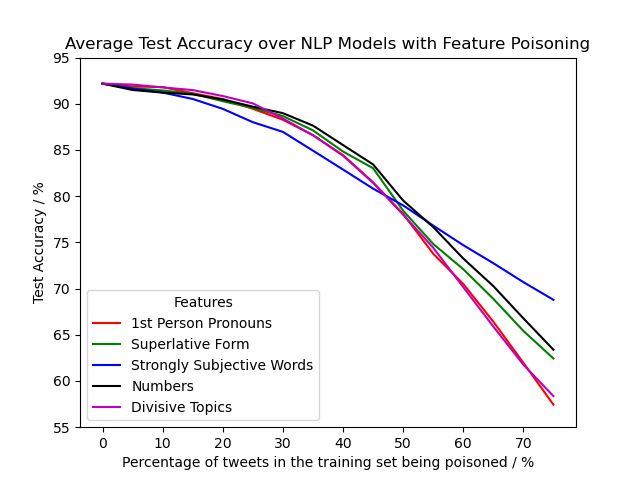
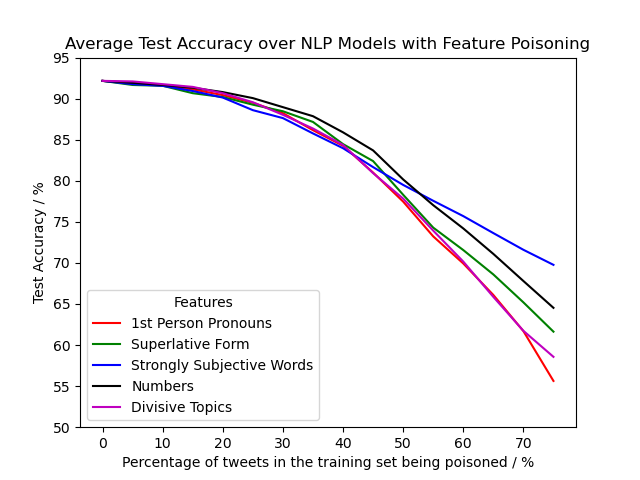
fix average graph

diff --git a/make_graph.py b/make_graph.py
@@ -1,63 +1,96 @@
 import numpy as np
 import matplotlib.pyplot as plt
 import os
+import pandas as pd
 
-# N% values
-n = [x for x in range(0,80,5)]
+"""
+This code produces the graph in Figure 4.4: the average of each NLP method for all features undergoing feature poisoning.
+"""
 
 # First Person Pronoun Test Accuracies Per Model
-first_lr = [89.4, 89.15, 89.05, 88.53, 88.14, 87.66, 86.92, 85.68, 84.0, 81.77, 79.28, 75.85, 72.34, 67.73, 62.76, 57.44]
-first_rf = [94.13, 93.56, 93.67, 92.67, 91.79, 89.99, 88.27, 85.72, 82.59, 78.42, 72.76, 66.85, 64.05, 60.74, 56.69, 52.76]
-first_svm = [93.03, 92.91, 92.7, 92.24, 91.62, 90.73, 89.63, 88.41, 86.75, 84.31, 82.21, 78.63, 75.11, 70.78, 66.44, 62.11]
+file = pd.read_csv('results/feature_first_person.csv')  
+lr_accuracy= file['LR']
+rf_accuracy = file['RF']
+svm_accuracy = file['SVM']
+
+lr_accuracy_percent = [x * 100 for x in lr_accuracy]
+rf_accuracy_percent = [x * 100 for x in rf_accuracy]
+svm_accuracy_percent = [x * 100 for x in svm_accuracy]
+
 # Avg First Person Pronoun Test Accuracies 
-first_acc_total = np.array([first_lr, first_rf, first_svm])
+first_acc_total = np.array([lr_accuracy_percent, rf_accuracy_percent, svm_accuracy_percent])
 first_acc_avg = np.average(first_acc_total, axis=0)
 
-# Superlative Test Accuracies Per Model
-super_lr = [89.4, 89.29, 89.01, 88.53, 88.05, 87.67, 87.07, 86.33, 85.24, 84.21, 82.54, 80.89, 78.9, 76.53, 73.29, 70.33]
-super_rf = [94.13, 92.82, 92.65, 92.38, 91.12, 89.97, 88.72, 85.92, 81.55, 78.82, 68.94, 62.21, 59.04, 54.59, 51.07, 48.7]
-super_svm = [93.03, 92.98, 92.67, 92.36, 91.67, 90.99, 90.23, 89.12, 87.71, 86.06, 83.81, 81.39, 78.37, 75.55, 71.9, 68.27]
-# Avg Superlative Test Accuracies 
-super_acc_total = np.array([super_lr, super_rf, super_svm])
+# Superlative Forms Test Accuracies Per Model
+file = pd.read_csv('results/feature_superlative.csv')  
+lr_accuracy= file['LR']
+rf_accuracy = file['RF']
+svm_accuracy = file['SVM']
+
+lr_accuracy_percent = [x * 100 for x in lr_accuracy]
+rf_accuracy_percent = [x * 100 for x in rf_accuracy]
+svm_accuracy_percent = [x * 100 for x in svm_accuracy]
+
+# Avg Superlative Forms Test Accuracies 
+super_acc_total = np.array([lr_accuracy_percent, rf_accuracy_percent, svm_accuracy_percent])
 super_acc_avg = np.average(super_acc_total, axis=0)
 
-# Strongly Subjective Words Test Accuracies Per Model
-subj_lr = [89.4, 88.52, 88.14, 87.54, 86.87, 86.15, 85.48, 84.38, 83.42, 82.37, 81.17, 80.14, 79.16, 78.03, 76.82, 75.78]
-subj_rf = [94.13, 93.61, 93.06, 92.14, 90.52, 88.15, 86.66, 83.11, 79.5, 76.21, 73.37, 69.56, 65.94, 63.0, 60.52, 57.89]
-subj_svm = [93.03, 92.79, 92.46, 91.88, 90.97, 89.73, 88.74, 87.3, 85.73, 83.88, 82.47, 80.76, 79.0, 77.22, 74.76, 72.69]
-# Avg Strongly Subjective Words Test Accuracies
-subj_acc_total = np.array([subj_lr, subj_rf, subj_svm])
-subj_acc_avg = np.average(subj_acc_total, axis=0)
-
 # Numbers Test Accuracies Per Model
-num_lr = [89.4, 88.64, 88.45, 88.43, 87.95, 87.38, 86.87, 86.18, 85.25, 83.88, 82.52, 80.52, 77.73, 74.95, 71.95, 68.58]
-num_rf = [94.13, 93.2, 92.76, 92.34, 91.64, 90.58, 89.84, 87.71, 83.59, 80.26, 71.86, 67.79, 63.09, 59.91, 55.5, 52.64]
-num_svm = [93.03, 92.64, 92.43, 92.27, 91.81, 91.11, 90.25, 89.03, 87.76, 86.18, 84.21, 81.67, 78.95, 75.95, 72.89, 68.93]
-# Avg Numbers Words Test Accuracies
-num_acc_total = np.array([num_lr, num_rf, num_svm])
+file = pd.read_csv('results/feature_numbers.csv')  
+lr_accuracy= file['LR']
+rf_accuracy = file['RF']
+svm_accuracy = file['SVM']
+
+lr_accuracy_percent = [x * 100 for x in lr_accuracy]
+rf_accuracy_percent = [x * 100 for x in rf_accuracy]
+svm_accuracy_percent = [x * 100 for x in svm_accuracy]
+
+# Avg Numbers Test Accuracies 
+num_acc_total = np.array([lr_accuracy_percent, rf_accuracy_percent, svm_accuracy_percent])
 num_acc_avg = np.average(num_acc_total, axis=0)
 
-# Divisive Test Accuracies Per Model
-div_lr = [89.4, 89.15, 89.0, 88.77, 88.45, 88.1, 87.42, 86.35, 85.51, 84.27, 82.2, 79.97, 76.74, 73.2, 68.98, 64.96]
-div_rf = [94.13, 94.01, 93.49, 92.82, 91.76, 90.32, 86.87, 83.38, 78.83, 73.32, 67.3, 61.37, 55.23, 49.75, 45.79, 42.83]
-div_svm = [93.03, 93.08, 92.84, 92.86, 92.31, 91.71, 90.92, 90.08, 88.81, 86.76, 84.5, 81.94, 78.51, 74.71, 70.54, 67.3]
-# Avg Divisive Words Test Accuracies
-div_acc_total = np.array([div_lr, div_rf, div_svm])
+# Strongly Subjective Words Test Accuracies Per Model
+file = pd.read_csv('results/feature_subjective.csv')  
+lr_accuracy= file['LR']
+rf_accuracy = file['RF']
+svm_accuracy = file['SVM']
+
+lr_accuracy_percent = [x * 100 for x in lr_accuracy]
+rf_accuracy_percent = [x * 100 for x in rf_accuracy]
+svm_accuracy_percent = [x * 100 for x in svm_accuracy]
+
+# Avg Strongly Subjective Words Test Accuracies 
+subj_acc_total = np.array([lr_accuracy_percent, rf_accuracy_percent, svm_accuracy_percent])
+subj_acc_avg = np.average(subj_acc_total, axis=0)
+
+# Divisive Topics Test Accuracies Per Model
+file = pd.read_csv('results/feature_divisive.csv')  
+lr_accuracy= file['LR']
+rf_accuracy = file['RF']
+svm_accuracy = file['SVM']
+
+lr_accuracy_percent = [x * 100 for x in lr_accuracy]
+rf_accuracy_percent = [x * 100 for x in rf_accuracy]
+svm_accuracy_percent = [x * 100 for x in svm_accuracy]
+
+# Avg Divisive Topics Test Accuracies 
+div_acc_total = np.array([lr_accuracy_percent, rf_accuracy_percent, svm_accuracy_percent])
 div_acc_avg = np.average(div_acc_total, axis=0)
 
 # Plot average graph
 ax = plt.gca()
-ax.set_ylim([55, 95])
+ax.set_ylim([50, 95])
+N_list = list(range(0,80,5))
 
-plt.plot(n, first_acc_avg, color = "r", label = '1st Person Pronouns')
+plt.plot(N_list, first_acc_avg, color = "r", label = '1st Person Pronouns')
 
-plt.plot(n, super_acc_avg, color = "g", label = 'Superlative Form')
+plt.plot(N_list, super_acc_avg, color = "g", label = 'Superlative Form')
 
-plt.plot(n, subj_acc_avg, color = "b", label = 'Strongly Subjective Words')
+plt.plot(N_list, subj_acc_avg, color = "b", label = 'Strongly Subjective Words')
 
-plt.plot(n, num_acc_avg, color = "k", label = 'Numbers')
+plt.plot(N_list, num_acc_avg, color = "k", label = 'Numbers')
 
-plt.plot(n, div_acc_avg , color = "m", label = 'Divisive Topics')
+plt.plot(N_list, div_acc_avg , color = "m", label = 'Divisive Topics')
 
 
 plt.xlabel('Percentage of tweets in the training set being poisoned / %')
